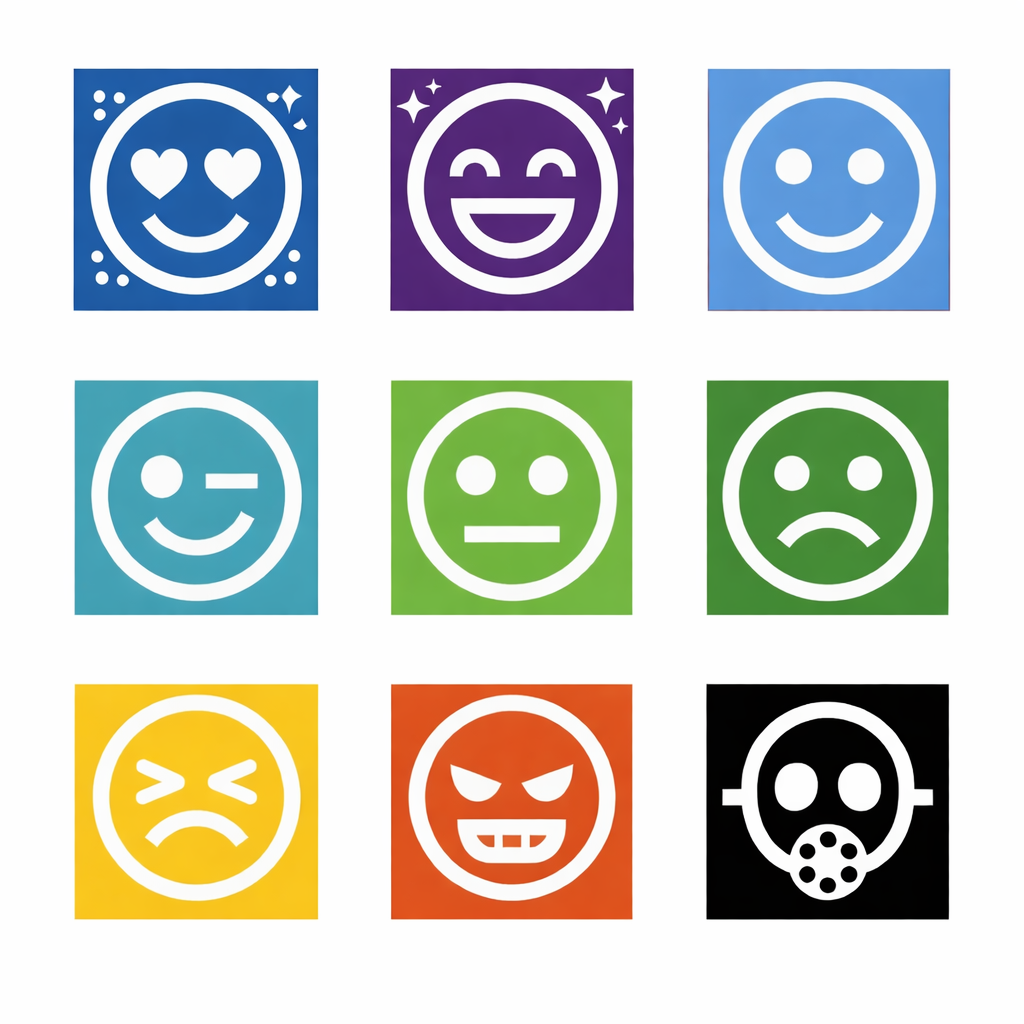
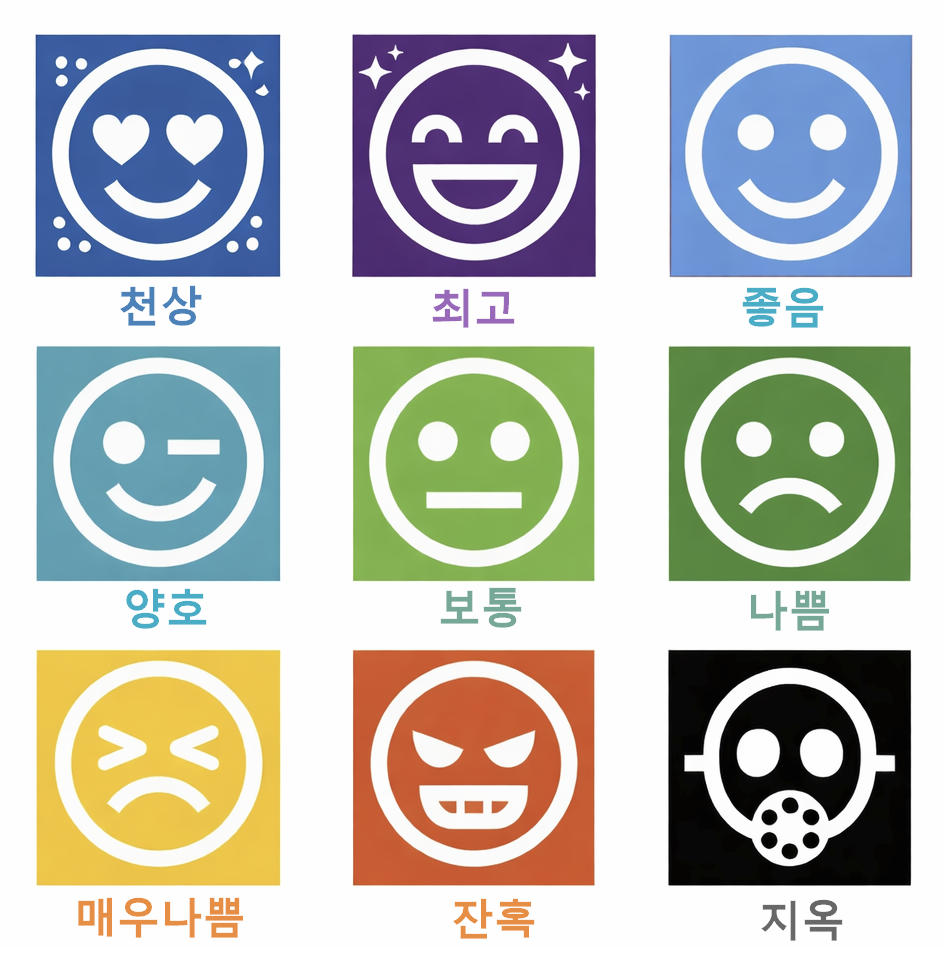
[기능] 텍스트 애니효과와 등급별 행동지침 안내

diff --git a/src/components/weather/AQIWidget.js b/src/components/weather/AQIWidget.js
@@ -1,10 +1,13 @@
 "use client";
 
+import { useState } from "react";
 import { useSelector } from "react-redux";
-import { motion } from "framer-motion";
+import { motion, AnimatePresence } from "framer-motion";
 
 export default function AQIWidget({ data, isLoading }) {
     const language = useSelector((state) => state.ui.language);
+    const [showIconBoard, setShowIconBoard] = useState(false);
+    const [hoveredLevel, setHoveredLevel] = useState(null);
 
     if (isLoading || !data) {
         return (
@@ -80,15 +83,51 @@ export default function AQIWidget({ data, isLoading }) {
     ];
 
     const statusMap = {
-        1: { label: language === "ko" ? "천상" : "Celestial", color: "#d7a5fdff", bg: "bg-emerald-500/5" },
-        2: { label: language === "ko" ? "최고" : "Top", color: "#34d399", bg: "bg-emerald-500/5" },
-        3: { label: language === "ko" ? "좋음" : "Good", color: "#84cc16", bg: "bg-lime-500/5" },
-        4: { label: language === "ko" ? "양호" : "Moderate", color: "#facc15", bg: "bg-yellow-500/5" },
-        5: { label: language === "ko" ? "보통" : "Normally", color: "#f59e0b", bg: "bg-amber-500/5" },
-        6: { label: language === "ko" ? "나쁨" : "Unhealthy", color: "#f97316", bg: "bg-orange-500/5" },
-        7: { label: language === "ko" ? "매우나쁨" : "V.Unhealthy", color: "#ef4444", bg: "bg-rose-500/5" },
-        8: { label: language === "ko" ? "잔혹" : "Hazardous", color: "#dc2626", bg: "bg-red-600/5" },
-        9: { label: language === "ko" ? "지옥" : "Hell", color: "#7f1d1d", bg: "bg-red-900/5" },
+        1: {
+            label: language === "ko" ? "천상" : "Celestial", color: "#d7a5fdff", bg: "bg-emerald-500/5",
+            action: language === "ko" ? "공기가 정화되었습니다. ✨" : "Air is purified. ✨",
+            detail: language === "ko" ? "대기질이 눈부시게 깨끗합니다. 실외 활동과 적극적인 환기를 적극 추천하며 모처럼의 맑은 공기를 만끽하세요." : "Pristine air quality. Highly recommended for outdoor activities and active ventilation."
+        },
+        2: {
+            label: language === "ko" ? "최고" : "Top", color: "#34d399", bg: "bg-emerald-500/5",
+            action: language === "ko" ? "최상의 공기질입니다." : "Excellent air quality.",
+            detail: language === "ko" ? "매우 쾌적하고 건강한 대기 상태입니다. 실외 활동을 즐기기에 완벽한 시간입니다." : "Very pleasant and healthy air. Perfect time to enjoy outdoor activities."
+        },
+        3: {
+            label: language === "ko" ? "좋음" : "Good", color: "#84cc16", bg: "bg-lime-500/5",
+            action: language === "ko" ? "쾌적한 날씨입니다." : "Pleasant weather.",
+            detail: language === "ko" ? "공기질이 양호하며 대다수의 사람들에게 건강상 위험이 없는 상태입니다." : "Air quality is good and poses no health risks for the vast majority of people."
+        },
+        4: {
+            label: language === "ko" ? "양호" : "Moderate", color: "#facc15", bg: "bg-yellow-500/5",
+            action: language === "ko" ? "무난한 공기질입니다." : "Fair air quality.",
+            detail: language === "ko" ? "일상적인 활동에 적합합니다. 다만 민감군은 장시간 실외 활동 시 호흡기 증상을 체크하세요." : "Suitable for daily activities. However, sensitive groups should monitor respiratory symptoms."
+        },
+        5: {
+            label: language === "ko" ? "보통" : "Normally", color: "#f59e0b", bg: "bg-amber-500/5",
+            action: language === "ko" ? "보통 수준입니다." : "Normal level.",
+            detail: language === "ko" ? "건강한 성인은 문제없으나 호흡기 질환자나 노약자는 장시간 무리한 실외 활동을 자제하는 것이 좋습니다." : "Generally okay, but those with respiratory issues should avoid strenuous outdoor stays."
+        },
+        6: {
+            label: language === "ko" ? "나쁨" : "Unhealthy", color: "#f97316", bg: "bg-orange-500/5",
+            action: language === "ko" ? "마스크를 착용하세요. 😷" : "Please wear a mask. 😷",
+            detail: language === "ko" ? "누구에게나 건강에 좋지 않을 수 있습니다. 실외 활동 시 KF80 이상의 마스크를 착용하고 환기는 자제하세요." : "May be unhealthy for everyone. Wear a KF80+ mask outdoors and limit ventilation."
+        },
+        7: {
+            label: language === "ko" ? "매우나쁨" : "V.Unhealthy", color: "#ef4444", bg: "bg-rose-500/5",
+            action: language === "ko" ? "외출을 자제하세요. ⚠" : "Avoid going outside. ⚠",
+            detail: language === "ko" ? "건강에 심각한 영향을 미칠 수 있습니다. 가급적 실내에 머무르고 창문을 닫아 외부 공기 유입을 차단하세요." : "Can have serious health impacts. Stay indoors as much as possible and close windows tight."
+        },
+        8: {
+            label: language === "ko" ? "잔혹" : "Hazardous", color: "#dc2626", bg: "bg-red-600/10",
+            action: language === "ko" ? "🚨 실외 활동 즉시 중단." : "🚨 STOP outdoor activity.",
+            detail: language === "ko" ? "🚨 매우 위험한 재난 수준입니다. 야외 활동을 즉시 멈추고 실내 공기청정기를 최대 강도로 가동하며 외출하지 마세요." : "🚨 Dangerous disaster level. Stop all outdoor activity immediately, run purifiers at max, and strictly stay inside."
+        },
+        9: {
+            label: language === "ko" ? "지옥" : "Hell", color: "#7f1d1d", bg: "bg-red-900/20",
+            action: language === "ko" ? "💀 절대 외출 금지." : "💀 Absolute stay indoors.",
+            detail: language === "ko" ? "💀 치명적인 대기 상태입니다. 외부 공기와의 접촉을 완벽히 차단하고, 실내에서도 마스크를 착용하거나 공기질 정화에 집중하세요." : "💀 Fatal air condition. Completely block outside air. Focus on purification and possibly wear a mask even indoors."
+        },
     };
 
     const currentStatus = statusMap[calculatedAqi] || statusMap[3];
@@ -133,7 +172,29 @@ export default function AQIWidget({ data, isLoading }) {
                         })}
                     </svg>
                     <div className="absolute inset-0 flex flex-col items-center justify-center pt-1">
-                        <span className="text-base font-black leading-none tracking-tighter" style={{ color: currentStatus.color }}>{currentStatus.label}</span>
+                        <motion.span
+                            className="text-base font-black leading-none tracking-tighter cursor-pointer hover:scale-110 active:scale-95 transition-transform"
+                            style={{ color: currentStatus.color }}
+                            onClick={() => setShowIconBoard(true)}
+                            animate={calculatedAqi >= 8 ? {
+                                x: [0, -2, 2, -1, 1, 0],
+                                opacity: [1, 0.8, 1, 0.9, 1],
+                                filter: [
+                                    "none",
+                                    "drop-shadow(2px 0 red) drop-shadow(-2px 0 blue)",
+                                    "none",
+                                    "drop-shadow(-1px 0 red) drop-shadow(1px 0 cyan)",
+                                    "none"
+                                ]
+                            } : {}}
+                            transition={{
+                                repeat: Infinity,
+                                duration: calculatedAqi === 9 ? 0.2 : 0.4,
+                                repeatType: "mirror"
+                            }}
+                        >
+                            {currentStatus.label}
+                        </motion.span>
                     </div>
                 </div>
 
@@ -159,15 +220,125 @@ export default function AQIWidget({ data, isLoading }) {
                 </div>
             </div>
 
-            <div className="flex justify-between items-end mt-1">
-                <div className="flex items-center gap-1.5">
+            <div className="flex justify-between items-end mt-1.5 px-0.5">
+                <div className="flex items-center gap-1.5 text-[8px] opacity-30 font-bold uppercase tracking-widest leading-none">
                     <div className="w-1.5 h-1.5 rounded-full animate-pulse" style={{ backgroundColor: currentStatus.color }} />
-                    <span className="text-[8px] opacity-30 font-bold uppercase tracking-widest leading-none">
-                        {language === "ko" ? "수원시 관측소 실시간 대기" : "LIVE STATION: SUWON"}
-                    </span>
+                    {language === "ko" ? "실시간 지표" : "LIVE METRICS"}
                 </div>
+                <div className="text-[8px] opacity-20 font-bold uppercase">SUWON STATION</div>
             </div>
+
+            {/* Ticker를 최하단으로 이동 및 가독성 개선 */}
+            <div className="mt-2 h-7 bg-black/40 rounded-lg flex items-center overflow-hidden border border-white/10 relative mx-[-4px]">
+                <div className="absolute left-0 top-0 bottom-0 w-10 bg-gradient-to-r from-black/40 to-transparent z-10" />
+                <div className="absolute right-0 top-0 bottom-0 w-10 bg-gradient-to-l from-black/40 to-transparent z-10" />
+
+                <motion.div
+                    className="whitespace-nowrap flex gap-12 items-center h-full"
+                    animate={{ x: ["100%", "-100%"] }}
+                    transition={{
+                        duration: calculatedAqi >= 8 ? 7 : 10,
+                        repeat: Infinity,
+                        ease: "linear"
+                    }}
+                >
+                    <span className="text-[11px] font-black uppercase tracking-tight" style={{ color: currentStatus.color }}>
+                        {currentStatus.action}
+                    </span>
+                    <span className="text-[11px] font-black uppercase tracking-tight" style={{ color: currentStatus.color }}>
+                        {currentStatus.action}
+                    </span>
+                </motion.div>
+            </div>
+
+            {/* AQI 아이콘 전체 보기 모달 */}
+            <AnimatePresence>
+                {showIconBoard && (
+                    <motion.div
+                        initial={{ opacity: 0 }}
+                        animate={{ opacity: 1 }}
+                        exit={{ opacity: 0 }}
+                        className="fixed inset-0 z-[200] flex items-center justify-center p-4 bg-black/80 backdrop-blur-md"
+                        onClick={() => setShowIconBoard(false)}
+                    >
+                        <motion.div
+                            initial={{ scale: 0.9, y: 20 }}
+                            animate={{ scale: 1, y: 0 }}
+                            exit={{ scale: 0.9, y: 20 }}
+                            className="bg-[#1a1c1e] border border-white/10 rounded-3xl p-6 max-w-sm w-full shadow-2xl"
+                            onClick={(e) => e.stopPropagation()}
+                        >
+                            <div className="flex justify-between items-center mb-6">
+                                <h4 className="text-xs font-black tracking-widest opacity-40 uppercase">
+                                    {language === "ko" ? "공기질 단계별 가이드" : "AQI LEVELS GUIDE"}
+                                </h4>
+                                <button
+                                    onClick={() => setShowIconBoard(false)}
+                                    className="p-1 hover:bg-white/5 rounded-full transition-colors"
+                                >
+                                    <svg width="20" height="20" viewBox="0 0 24 24" fill="none" stroke="currentColor" strokeWidth="2" strokeLinecap="round" strokeLinejoin="round" className="opacity-40">
+                                        <line x1="18" y1="6" x2="6" y2="18"></line>
+                                        <line x1="6" y1="6" x2="18" y2="18"></line>
+                                    </svg>
+                                </button>
+                            </div>
+
+                            <div className="grid grid-cols-3 gap-4">
+                                {Object.keys(statusMap).map((level) => {
+                                    const isCurrent = Number(level) === calculatedAqi;
+                                    return (
+                                        <div
+                                            key={level}
+                                            className="flex flex-col items-center gap-1 group cursor-help"
+                                            onMouseEnter={() => setHoveredLevel(Number(level))}
+                                            onMouseLeave={() => setHoveredLevel(null)}
+                                        >
+                                            <div className={`relative w-16 h-16 flex items-center justify-center bg-white/5 rounded-2xl border transition-all p-2 ${isCurrent ? 'border-amber-500 shadow-[0_0_15px_rgba(245,158,11,0.3)] ring-2 ring-amber-500/20' : 'border-white/5 hover:border-white/20'}`}>
+                                                <img
+                                                    src={`/images/AQI-index/icon_aqi_${level}.png`}
+                                                    alt={statusMap[level].label}
+                                                    className="w-full h-full object-contain"
+                                                />
+                                                <div className={`absolute top-1 right-2 text-[8px] font-black ${isCurrent ? 'text-amber-500 opacity-100' : 'opacity-30'}`}>
+                                                    {isCurrent ? 'NOW' : `LV.${level}`}
+                                                </div>
+                                            </div>
+                                            <span className="text-[10px] font-black tracking-tighter" style={{ color: statusMap[level].color }}>
+                                                {statusMap[level].label}
+                                            </span>
+                                        </div>
+                                    );
+                                })}
+                            </div>
+
+                            {/* 상세 행동 지침 안내판 */}
+                            <motion.div
+                                className="mt-6 p-4 bg-white/5 rounded-2xl border border-white/5"
+                                initial={false}
+                                animate={{ backgroundColor: hoveredLevel ? "rgba(255,255,255,0.08)" : "rgba(255,255,255,0.04)" }}
+                            >
+                                <div className="flex items-center gap-2 mb-2">
+                                    <div className="w-2 h-2 rounded-full" style={{ backgroundColor: statusMap[hoveredLevel || calculatedAqi].color }} />
+                                    <h5 className="text-[11px] font-black uppercase tracking-wider" style={{ color: statusMap[hoveredLevel || calculatedAqi].color }}>
+                                        {statusMap[hoveredLevel || calculatedAqi].label} {language === "ko" ? "행동 가이드" : "Action Guide"}
+                                    </h5>
+                                </div>
+                                <p className="text-[11px] font-medium leading-relaxed text-white/70">
+                                    {statusMap[hoveredLevel || calculatedAqi].detail}
+                                </p>
+                            </motion.div>
+
+                            <div className="mt-4 pt-3 border-t border-white/5">
+                                <p className="text-[9px] text-center opacity-30 leading-relaxed uppercase tracking-widest font-bold">
+                                    {language === "ko"
+                                        ? "아이콘에 마우스를 올리면 상세 지침을 볼 수 있습니다."
+                                        : "Hover icons for detailed instructions."}
+                                </p>
+                            </div>
+                        </motion.div>
+                    </motion.div>
+                )}
+            </AnimatePresence>
         </div>
     );
 }
-

diff --git a/src/components/weather/WeatherWidget.js b/src/components/weather/WeatherWidget.js
@@ -2,8 +2,9 @@
 
 import { Cloud, Sun, CloudRain, Wind } from "lucide-react";
 import { useSelector } from "react-redux";
+import { motion } from "framer-motion";
 
-export default function WeatherWidget({ data, isLoading }) {
+export default function WeatherWidget({ data, aqiData, isLoading }) {
     const language = useSelector((state) => state.ui.language);
     if (isLoading || !data) {
         return (
@@ -36,11 +37,13 @@ export default function WeatherWidget({ data, isLoading }) {
                 {getIcon()}
             </div>
 
-            <div>
-                <div className="text-5xl font-black mb-1">{temp}°C</div>
-                <div className="flex flex-col">
-                    <span className="text-sm font-medium">{weather[0].description}</span>
-                    <span className="text-[10px] opacity-40 uppercase tracking-tighter">{name}</span>
+            <div className="flex justify-between items-end">
+                <div>
+                    <div className="text-5xl font-black mb-1">{temp}°C</div>
+                    <div className="flex flex-col">
+                        <span className="text-sm font-medium">{weather[0].description}</span>
+                        <span className="text-[10px] opacity-40 uppercase tracking-tighter">{name}</span>
+                    </div>
                 </div>
             </div>
 

diff --git a/src/components/clock/AlarmSetting.js b/src/components/clock/AlarmSetting.js
@@ -31,6 +31,22 @@ export default function AlarmSetting() {
         return () => clearInterval(interval);
     }, [isOpen, alarmTime]);
 
+    // 모달이 열릴 때 현재 시간을 기본값으로 설정
+    useEffect(() => {
+        if (isOpen) {
+            const now = new Date();
+            let hours = now.getHours();
+            const ampm = hours >= 12 ? "PM" : "AM";
+            hours = hours % 12;
+            hours = hours ? hours : 12; // 0시는 12시로 표시
+            const minutes = now.getMinutes().toString().padStart(2, '0');
+
+            setManualHour(hours.toString());
+            setManualMin(minutes);
+            setManualAmPm(ampm);
+        }
+    }, [isOpen]);
+
     const handleManualSet = () => {
         if (manualHour === "" || manualMin === "") return;
 
@@ -109,7 +125,7 @@ export default function AlarmSetting() {
                                     }}
                                     className="py-2 rounded-lg bg-white/5 border border-white/5 hover:bg-white/10 hover:border-white/20 transition-all text-[10px] font-black"
                                 >
-                                    +{m}m
+                                    {language === "ko" ? `+${m}분` : `+${m} min`}
                                 </button>
                             ))}
                         </div>

diff --git a/src/app/page.js b/src/app/page.js
@@ -64,7 +64,7 @@ export default function Dashboard() {
 
           {/* Bottom Area: Weather & AQI */}
           <div className="grid grid-cols-2 gap-6 h-[200px]">
-            <WeatherWidget data={weather} isLoading={isLoading} />
+            <WeatherWidget data={weather} aqiData={aqi} isLoading={isLoading} />
             <AQIWidget data={aqi} isLoading={isLoading} />
           </div>
         </div>
